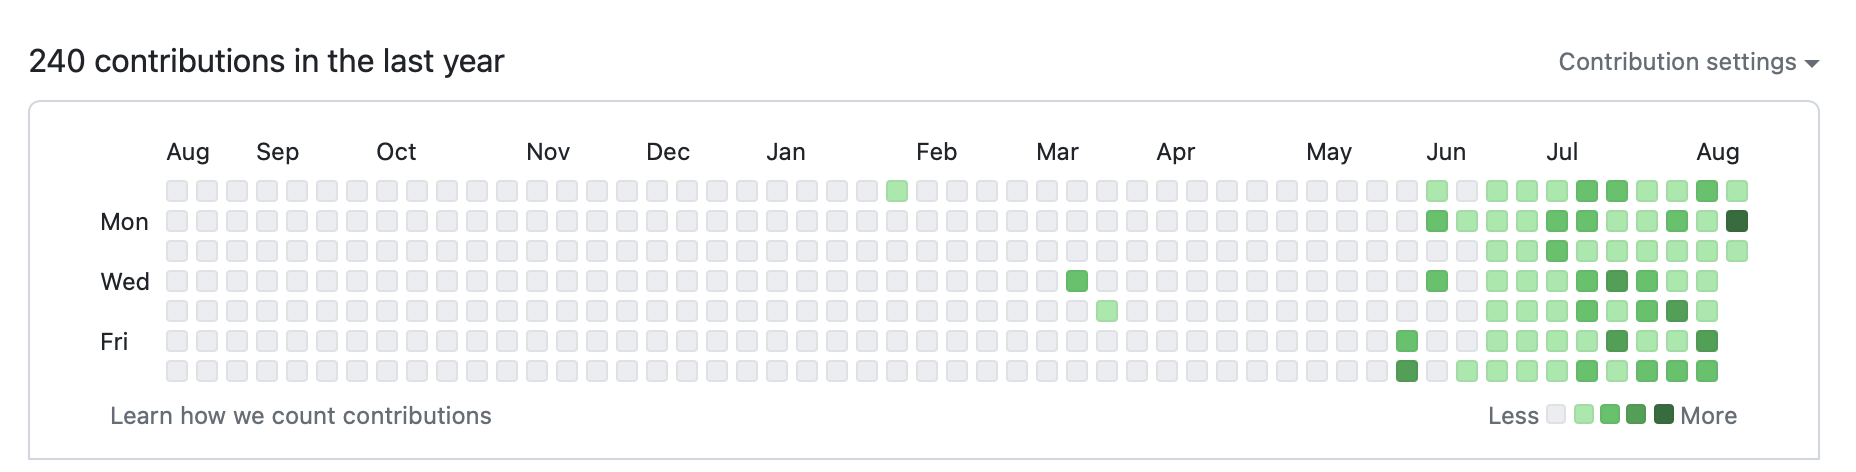
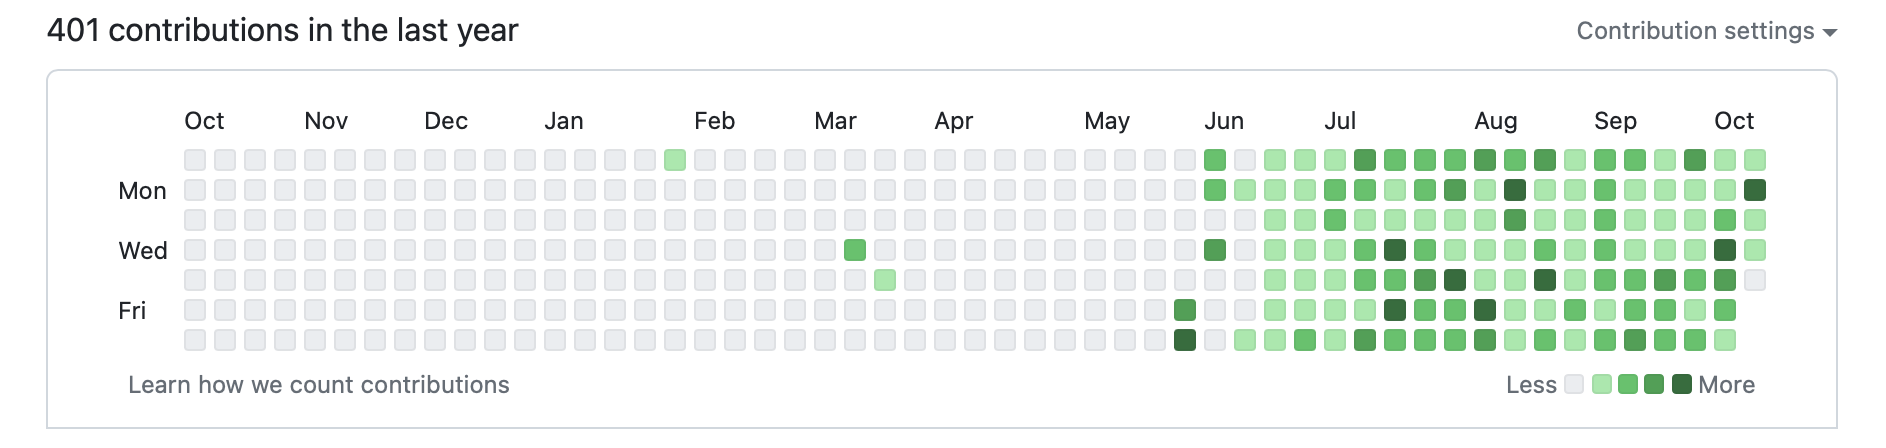
Updated The Details of leetcode,git,education,etc

diff --git a/index.html b/index.html
@@ -55,13 +55,16 @@
                             <li><span>Programming Language</span><br>[ C++ &nbsp Java &nbsp Javascript ]</li>
                             <li><span>Required</span><br>[ Git &nbsp Github &nbsp SQL &nbsp DSA ]</li>
                             <li><span>Frontend development</span><br>Designing Web interfaces [ HTML &nbsp CSS &nbsp JS ]</li>
+                            <li><span>Backend development</span><br>[Nodejs &nbsp Express &nbsp SQL]</li>
+                            <li><span>Tools</span><br>[Vscode &nbsp Figma &nbsp Canva &nbsp LucidChart]</li>
                         </ul>
                     </div>
                     <div class="tab-contents" id="experience">
                         <ul>
                             <li><span>web development</span><br>Experience in developing responsive designs</li>
                             <li><span>c++</span><br>Experience in solving problems</li>
-                            <li><span>Figma</span><br>Experience in designing</li>
+                            <li><span>Figma</span><br>Experience in designing UI/UX</li>
+                            <li><span>Embedded</span><br>Created IOT based Modules</li>
                         </ul>
                     </div>
                     <div class="tab-contents" id="education">
@@ -117,8 +120,9 @@
                 <i class="fa-solid fa-code"></i>
                 <h2>Leetcode</h2>
                 <p><ul>
-                    <li>Consistency of more than 180+ days</li>
+                    <li>Consistency of more than 240+ days</li>
                     <li>Daily Problem Solving</li>
+                    <li>350+ problems solved</li>
                     <li>Continously learning new concepts</li>
                 </ul>
                 </p>
@@ -128,8 +132,8 @@
                 <i class="fa-sharp fa-solid fa-crop-simple"></i>
                 <h2>Github</h2>
                 <p><ul>
-                    <li>more than 200+ contributions</li>
-                    <li>Consistency of more than 60+ days</li>
+                    <li>more than 400+ contributions</li>
+                    <li>Consistency of more than 100+ days</li>
                     <li>Created many good repos</li>
                     <li>Projects source codes available</li>
                 </ul>
